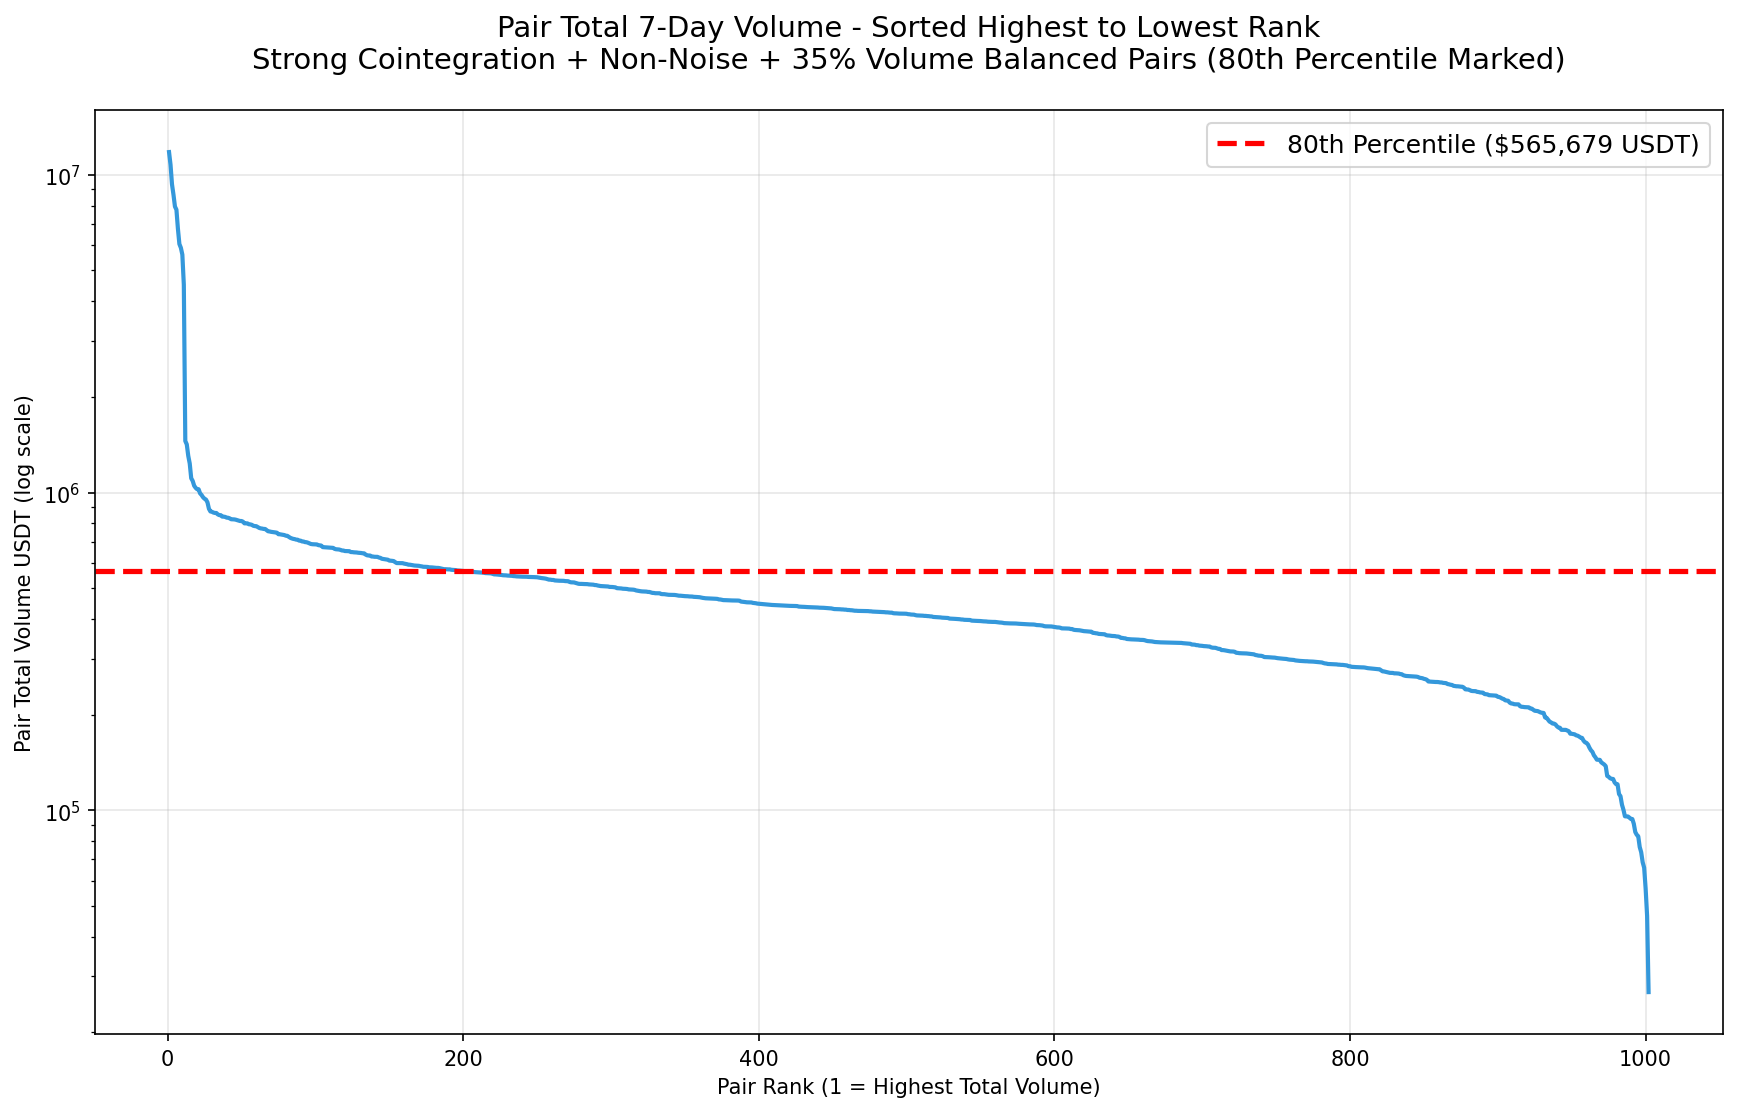
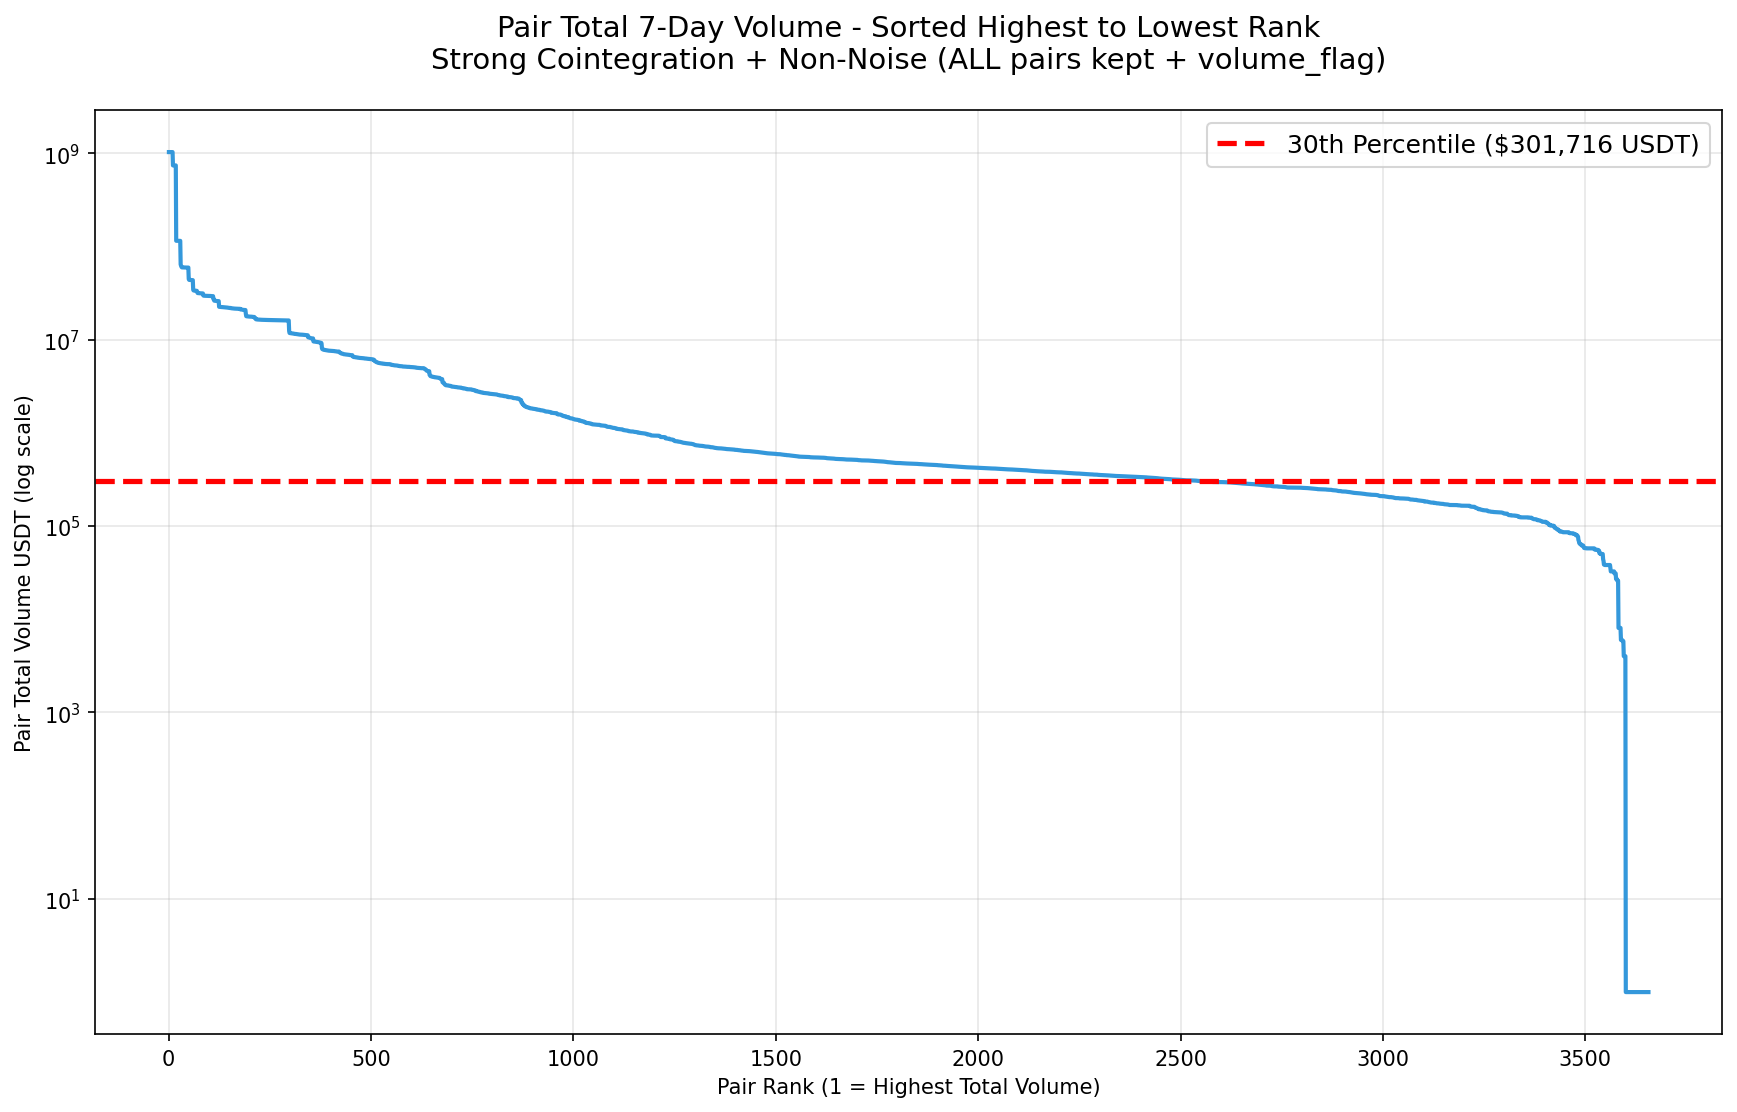
not discarding low volume, but marked

diff --git a/src/pcv2/filter_by_volume.py b/src/pcv2/filter_by_volume.py
@@ -7,8 +7,8 @@ import numpy as np
 from datetime import datetime
 
 # ====================== CONFIG (change these!) ======================
-PERCENTILE = 50
-MIN_VOLUME_RATIO = 0.30
+PERCENTILE = 30
+MIN_VOLUME_RATIO = 0.30          # ← only used for flagging now (you can change to 0.10 etc.)
 VOLUME_CACHE_FILE = "mexc_kucoin_volume.csv" 
 # ===========================================================================
 
@@ -38,7 +38,6 @@ def get_mexc_7d_avg_volume(symbol):
     except Exception:
         return 0.0
 
-
 def get_kucoin_7d_avg_volume(symbol):
     if pd.isna(symbol) or str(symbol).strip() == '':
         return 0.0
@@ -62,7 +61,6 @@ def get_kucoin_7d_avg_volume(symbol):
     except Exception:
         return 0.0
 
-
 def load_volume_cache():
     if os.path.exists(VOLUME_CACHE_FILE):
         df_cache = pd.read_csv(VOLUME_CACHE_FILE)
@@ -72,11 +70,9 @@ def load_volume_cache():
         print(f"📂 No volume cache found → will create {VOLUME_CACHE_FILE}")
         return pd.DataFrame(columns=['symbol', 'mexc_7d_avg_vol_usdt', 'kucoin_7d_avg_vol_usdt', 'last_updated'])
 
-
 def save_volume_cache(df_cache):
     df_cache.to_csv(VOLUME_CACHE_FILE, index=False)
     print(f"💾 Saved/updated volume cache → {VOLUME_CACHE_FILE} ({len(df_cache):,} symbols)")
-
 
 # ====================== MAIN ======================
 if __name__ == "__main__":
@@ -112,7 +108,6 @@ if __name__ == "__main__":
     missing_symbols = [str(s).strip().upper() for s in symbols 
                        if str(s).strip().upper() not in cached_symbols]
     
-    # ====================== PROMPT LOGIC (exactly as you asked) ======================
     force_refresh = False
     if missing_symbols:
         print(f"🔄 Fetching volume data for {len(missing_symbols):,} NEW symbols...")
@@ -148,7 +143,6 @@ if __name__ == "__main__":
             volume_cache_df = pd.concat([volume_cache_df, new_df], ignore_index=True)
             volume_cache_df = volume_cache_df.drop_duplicates(subset=['symbol']).reset_index(drop=True)
             save_volume_cache(volume_cache_df)
-    # ================================================================================
     
     # Build fast lookup dictionary
     volume_dict = {}
@@ -171,16 +165,24 @@ if __name__ == "__main__":
     df['symbol2_total_7d_vol_usdt'] = df['mexc_symbol2_7d_avg_vol_usdt'] + df['kucoin_symbol2_7d_avg_vol_usdt']
     df['pair_total_7d_vol_usdt'] = df['symbol1_total_7d_vol_usdt'] + df['symbol2_total_7d_vol_usdt']
     
-    # Volume balance filter
-    print(f"🔍 Applying volume balance filter ({MIN_VOLUME_RATIO*100:.0f}% min ratio)...")
-    before_balance = len(df)
+    # ====================== NEW: VOLUME FLAG (NO ROWS DROPPED) ======================
+    print(f"🔍 Adding volume_flag column (using {MIN_VOLUME_RATIO*100:.0f}% balance threshold)...")
+    v1 = df['symbol1_total_7d_vol_usdt']
+    v2 = df['symbol2_total_7d_vol_usdt']
     v_cols = ['symbol1_total_7d_vol_usdt', 'symbol2_total_7d_vol_usdt']
-    mask = (
-        (df[v_cols] > 0).all(axis=1) &
-        (df[v_cols].min(axis=1) >= MIN_VOLUME_RATIO * df[v_cols].max(axis=1))
-    )
-    df = df[mask].copy().reset_index(drop=True)
-    print(f"   Kept {len(df):,} balanced pairs | Discarded {before_balance - len(df):,} imbalanced pairs")
+    
+    df['volume_flag'] = "balanced"                                      # default
+    df.loc[(v1 == 0) | (v2 == 0), 'volume_flag'] = "zero_volume"
+    df.loc[
+        (v1 > 0) & (v2 > 0) &
+        (df[v_cols].min(axis=1) < MIN_VOLUME_RATIO * df[v_cols].max(axis=1)),
+        'volume_flag'
+    ] = "imbalanced"
+    
+    print(f"   → Balanced pairs     : {len(df[df['volume_flag'] == 'balanced']):,}")
+    print(f"   → Imbalanced pairs   : {len(df[df['volume_flag'] == 'imbalanced']):,}")
+    print(f"   → Zero-volume pairs  : {len(df[df['volume_flag'] == 'zero_volume']):,}")
+    # ===========================================================================
     
     # Sort + percentiles + chart + save
     print("🔄 Sorting pairs from highest total volume to lowest...")
@@ -190,11 +192,11 @@ if __name__ == "__main__":
     df['volume_percentile'] = (df['pair_total_7d_vol_usdt'].rank(pct=True) * 100).round(2)
     df['volume_percentile_rank'] = df['volume_percentile'].round(0).astype(int).map(ordinal) + " percentile"
     
-    # Reorder columns for readability
+    # Reorder columns (volume_flag appears right after pair_total_7d_vol_usdt)
     cols = list(df.columns)
     try:
         total_idx = cols.index('pair_total_7d_vol_usdt')
-        for col in ['volume_percentile_rank', 'volume_percentile'][::-1]:
+        for col in ['volume_flag', 'volume_percentile_rank', 'volume_percentile'][::-1]:
             if col in cols:
                 cols.insert(total_idx + 1, cols.pop(cols.index(col)))
         df = df[cols]
@@ -205,7 +207,7 @@ if __name__ == "__main__":
     p_value = volumes.quantile(PERCENTILE / 100.0)
     print(f"📈 {PERCENTILE}th percentile total volume: ${p_value:,.0f} USDT")
     
-    print(f"📈 Generating sorted rank chart ({PERCENTILE}th percentile, {MIN_VOLUME_RATIO*100:.0f}% balanced, log scale)...")
+    print(f"📈 Generating sorted rank chart ({PERCENTILE}th percentile, all pairs kept)...")
     plt.figure(figsize=(14, 8), dpi=150)
     ranks = range(1, len(df) + 1)
     plot_volumes = np.maximum(volumes, 1)
@@ -215,8 +217,7 @@ if __name__ == "__main__":
     plt.yscale('log')
     
     plt.title(f'Pair Total 7-Day Volume - Sorted Highest to Lowest Rank\n'
-              f'Strong Cointegration + Non-Noise + {MIN_VOLUME_RATIO*100:.0f}% Volume Balanced Pairs '
-              f'({PERCENTILE}th Percentile Marked)', 
+              f'Strong Cointegration + Non-Noise (ALL pairs kept + volume_flag)', 
               fontsize=14, pad=20)
     plt.xlabel('Pair Rank (1 = Highest Total Volume)')
     plt.ylabel('Pair Total Volume USDT (log scale)')
@@ -231,6 +232,6 @@ if __name__ == "__main__":
     # Save the final filtered/ranked results
     df.to_csv(output_file, index=False)
     print(f"\n✅ DONE!")
-    print(f"   Final filtered pairs file → {output_file} ({len(df):,} rows)")
-    print(f"   Separate volume cache      → {VOLUME_CACHE_FILE} ({len(volume_cache_df):,} symbols)")
-    print(f"   Filters applied: Strong Cointegration + Non-Noise + {MIN_VOLUME_RATIO*100:.0f}% Volume Balance")
+    print(f"   Final file → {output_file} ({len(df):,} rows) ← NO pairs were dropped!")
+    print(f"   Volume cache → {VOLUME_CACHE_FILE} ({len(volume_cache_df):,} symbols)")
+    print(f"   New column: volume_flag → 'balanced' / 'imbalanced' / 'zero_volume'")
